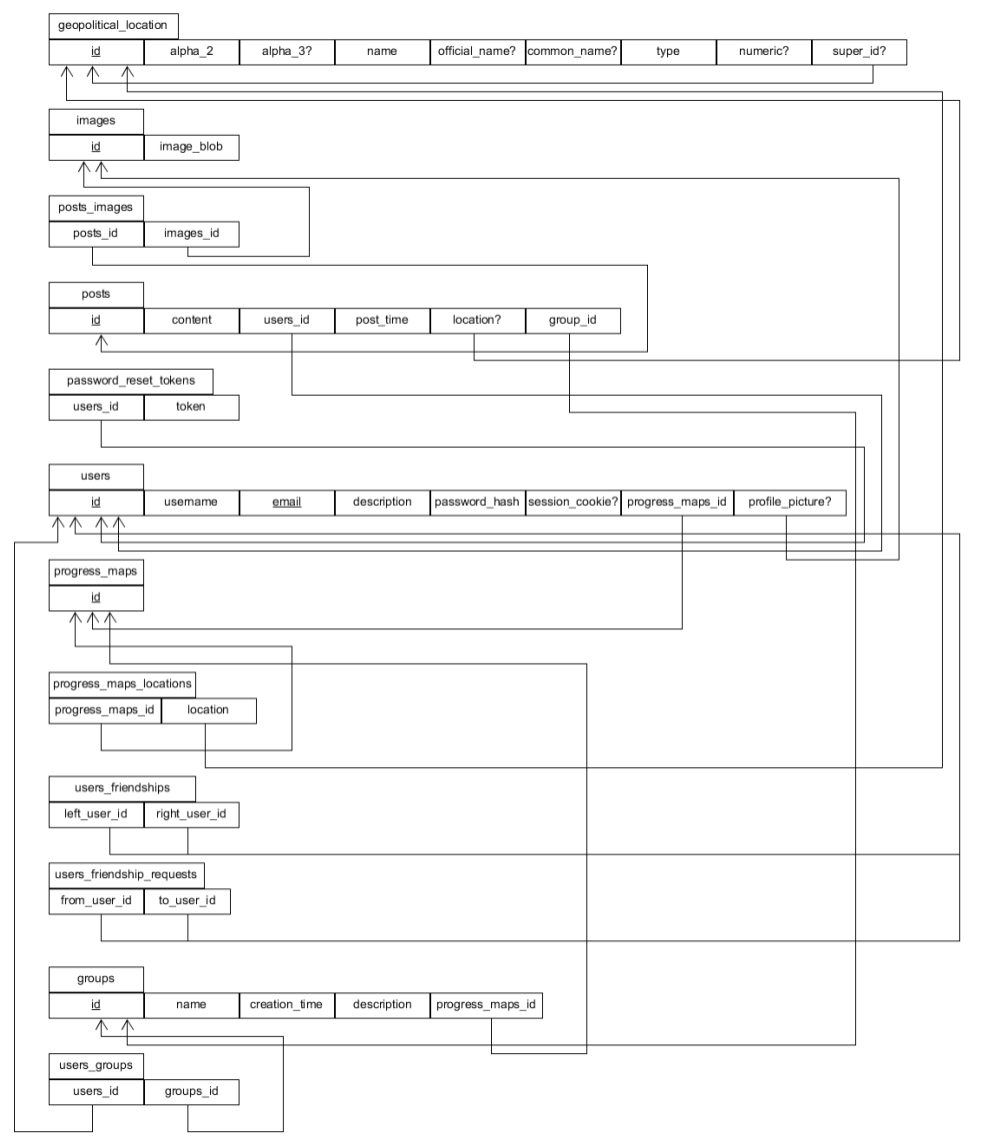
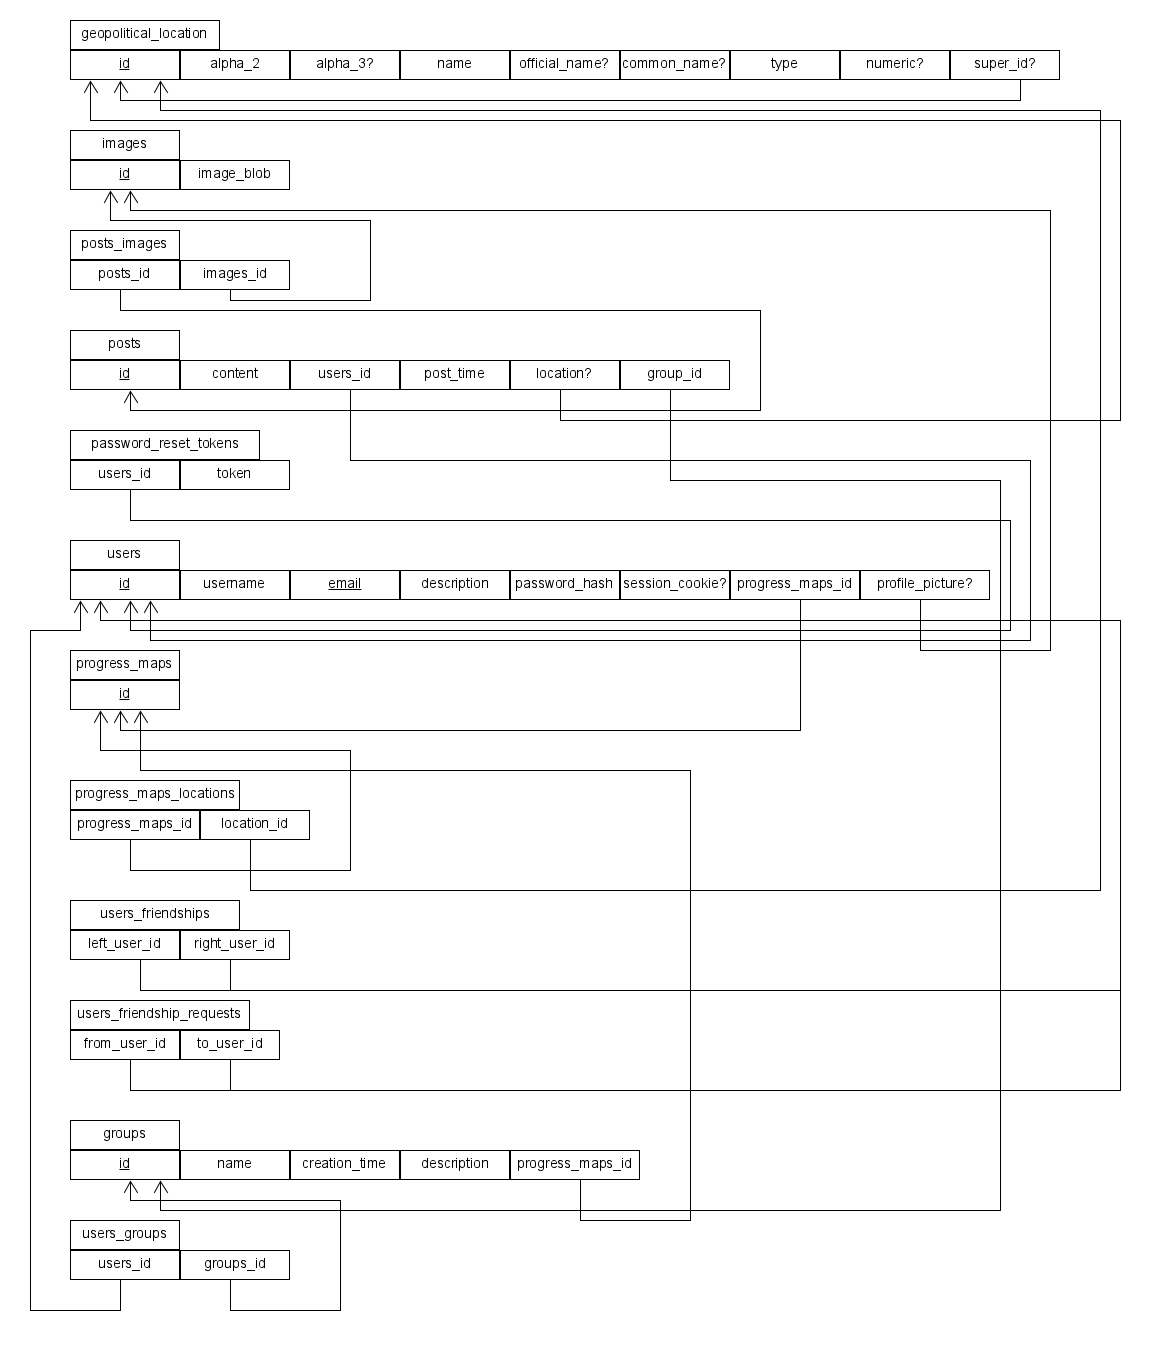
updated arkitektur

diff --git a/sections/Arkitektur.tex b/sections/Arkitektur.tex
@@ -1,8 +1,16 @@
 \chapter{Arkitektur}\label{ch:Arkitektur}
 
-Designet af arkitekturen har en indflydelse på forståelsen af systemet er organiseret, samt softwarens struktur. Specielt når det gælder den agile tilgang, er software design noget der bliver fokuseret på i starten af processen, da inkrementel udvikling af arkitektur vil ofte give vanskeligheder. Det samme gælder andet som refactoring og arkitektur. Dette vil ende ud i forsinkelse af systemet, netop fordi systemet skal modificeres relativt meget for at tilpasse dig forandringerne. Derfor er arkitekturen en proces, som gerne skal fasslåes i starten af et software projekt. \cite{Sommerville}
+Arkitekturen af programmet bestemmer hvordan systemet skal organiseres, samt hvordan de forskellige komponenter skal kommunikere med hinanden. Ved brug af den agile tilgang, er software design noget som burde være i fokus i starten af projektet, da inkrementel udvikling af arkitekturen ofte kan give vanskeligheder. I den agile tilgang, hvor der laves ændringer tit, og hvor nye komponenter skal kobles sammen med resten af systemet, kan arkitekturen hurtigt blive noget rod. refaktorering af de enkelte komponenter kan være nemt, men refaktorering af selve arkitekturen kan være en dyr process, da der efterhånden skal tilpasses flere og flere komponenter. Dette vil ende ud i en forsinkelse af systemets videreudvikling, som påvirker hvor effektivt man kan implementere nyt senere i processen. Derfor er arkitekturen en proces, som gerne skal fastslåes i starten af et software projekt. \cite{Sommerville}
 
-Til dette, har gruppen forudbestemt, inden implementering af systemet, hvordan arkitekturen skal se ud. Her har der været fokus på udelukkende en domæne-model og en relations model, da disse 2 vil give det bedste udtryk af, hvordan software er designet. Hertil en model for hvordan system arkitekturen er opast. 
+Til dette har gruppen forudbestemt, hvordan arkitekturen skal se ud inden implementering af systemet. Her har der været fokus på hvilke services der skulle være, samt hvordan de skal kommunikere med hinanden. Der er her udviklet en arkitektur model, domænemodel og en relationel model. De beskriver tilsammen de forskellige projekter i applikationen, samt model- og database design. 
+
+\begin{figure}
+    \includegraphics[width=\linewidth]{figures/Architecture.png}
+    \caption{Systemets generelle arkitektur}
+    \label{fig:Architecture}
+\end{figure}
+
+Der er i arkitekturen taget højde for både admin adgang og bruger adgang. Dette kan ses på QWest.Admin og QWest.Api, hvor kun brugeren benytter sig af Web og front-end. Dette skyldes at front-end ikke er et miljø hvor der kan være blind tiltro til brugeren, og der er barriere mellem bruger og databasen, så databasen ikke kan redigeres uden særlig tilladelse. 
 
 \begin{figure}
     \includegraphics[width=\linewidth]{figures/Domain.png}
@@ -10,7 +18,9 @@ Til dette, har gruppen forudbestemt, inden implementering af systemet, hvordan a
     \label{fig:Domain}
 \end{figure}
 
-
+Domænemodellen viser forholdende mellem de forskellige model-klasser i systemet. Til at starte med var der kun User, ProgressMap, GeopoliticalLocation, Country og Subdivision, da fokus var på at brugeren skulle kunne bruge deres eget kort til at se hvor meget af verden de havde set. Senere blev der introduceret Post, friends og friends requests, samt Group, sådan at man nu kunne dele sin profil og kort med sine venner. 
+Formålet var at det så skulle være muligt at deles om et ProgressMap i en gruppe, og deles om opslag - det er her samtidighedsproblemet i projektet kommer i fokus.
+% Write about what choices we made with regards to concurrency.
 
 \begin{figure}
     \includegraphics[width=\linewidth]{figures/RelationelmModel.png}
@@ -18,13 +28,6 @@ Til dette, har gruppen forudbestemt, inden implementering af systemet, hvordan a
     \label{fif:Rela}
 \end{figure}
 
+Den relationelle model afspejler domænemodellen, samt indeholder tabeller hvis formål er at håndtere forholdene mellem model-klasserne, herunder 1-1, 1-mange, og mange-mange forhold. Dette kan ses på tabeller som \texttt{progress\_maps\_locations}, \texttt{users\_friendships}, \texttt{users\_friendship\_requests}, \texttt{users\_groups} og \texttt{posts\_images}. Modellen opfylder ikke samtlige krav til BCNF\cite{bcnf}, og det kan ses to steder: \texttt{geopolitical\_location} indeholder \texttt{name} som ikke er atomisk. Dette skyldes at hvert land kan have flere officielle navne, uden at det påvirker samtlige andre data. Eksempelvis kan Storbrittanien også hedde United Kingdom og UK. Udover dette lagrer vi heller ikke hvert lands indelinger, da det ikke giver mening at lagre data som ikke bruges til noget. 
 
-
-\begin{figure}
-    \includegraphics[width=\linewidth]{figures/Systemarkitektur.png}
-    \caption{Systema Arkitektur}
-    \label{fig:Arki}
-\end{figure}
-
-
-Eftersom system arkitekturen er desigent, kan teamet fokuserer på at udvikle softwaren med respekt til designet. For at skabe den bedst mulige kvaliet af software, har teamet fokuseret på at kvalitetssikre procressen. I næste afsnist vil vi se på hvordan FURPS+ og bestemte XP praktikker er benyttet til at kvalitetssikre produktet. 
+Ud fra systemets arkitektur, kan teamet fokusere på at udvikle softwaren med respekt til designet. For at skabe den bedst mulige kvaliet af software, har teamet fokuseret på at kvalitetssikre processen. I næste afsnit vil der blive introduceret FURPS+ og bestemte XP praktikker, som er benyttet til at kvalitetssikre produktet. 
